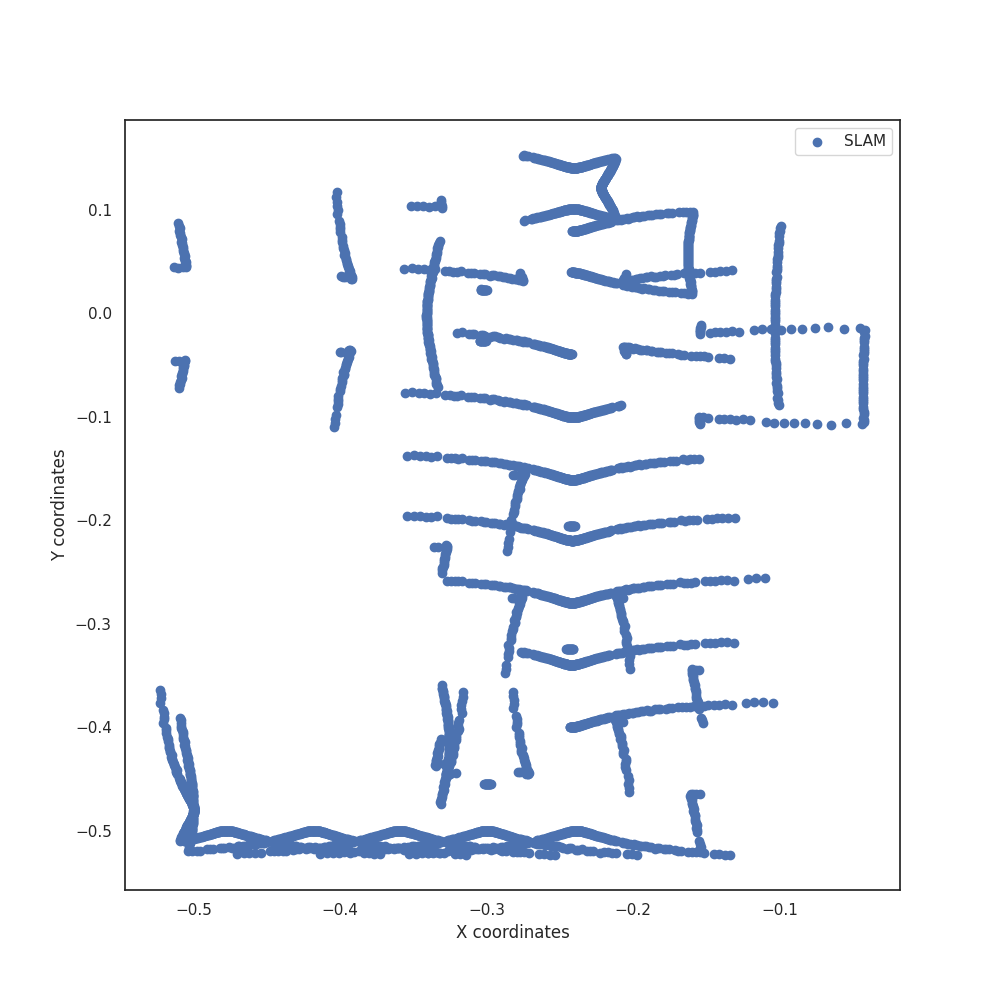
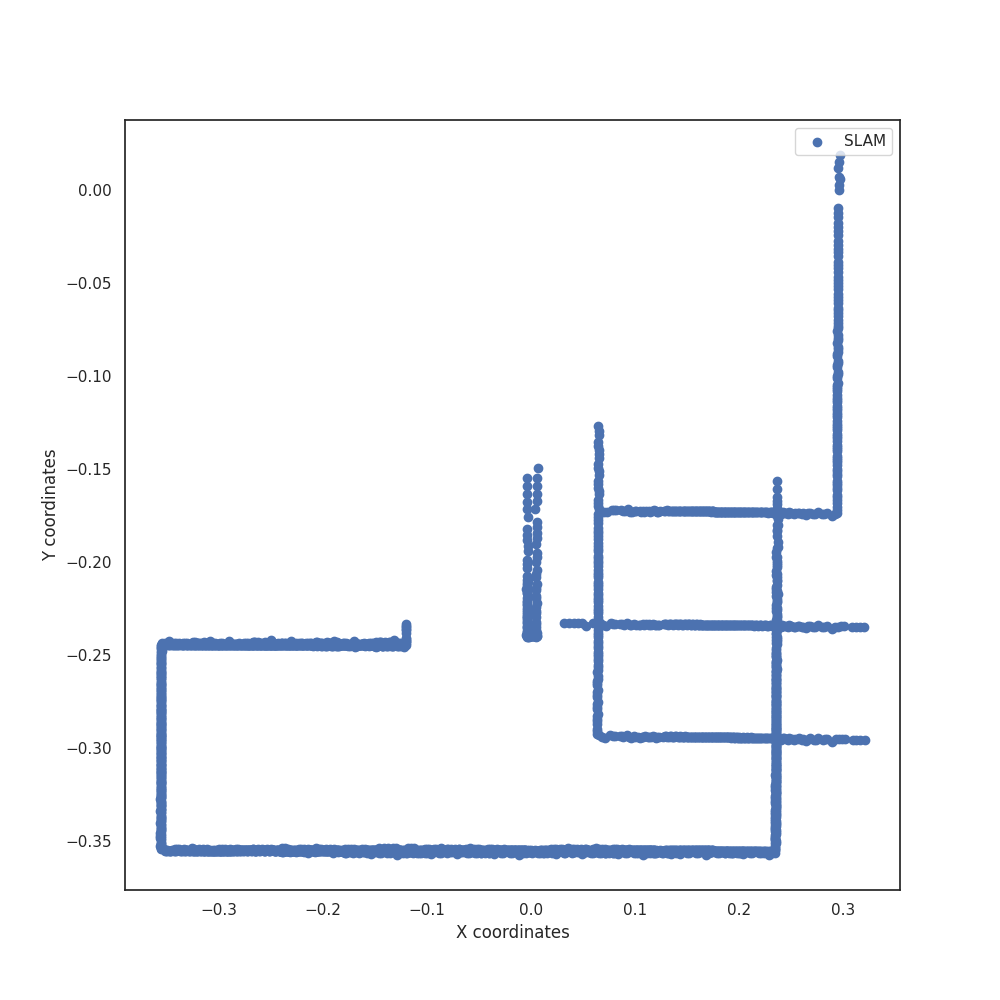
Criei duas funções de devices : side_by_angle_Augusto e  get_position_AUGUSTO. Resolvi a impresição do SLAM

diff --git a/src/slam.py b/src/slam.py
@@ -2,31 +2,42 @@ import numpy as np
 from types_and_constants import Coordinate
 from figure import fig
 import time
+import robot
 
-
+contador = -1000000
+start_angle = robot.expected_angle
 class Slam: 
+
     def __init__(self) -> None:
         self.list_x = []
         self.list_y = []
+        pass
         
-    def take_snapshot(self, gps_position: Coordinate, side_angle_to_distance_mapper: dict[float, float]) -> None:
-        x0 = gps_position.x
-        y0 = gps_position.y
+    def take_snapshot(self, gps_position: list, side_angle_to_distance_mapper: dict[float, float]) -> None:
+        global contador 
+        if contador <3: 
+            x0 = gps_position[0]
+            y0 = gps_position[1]
 
-        """ 
-        for side_angle, distance in side_angle_to_distance_mapper.items():
-            if distance == float ("inf"):
-                continue
-            distance_x = distance*np.cos(side_angle) + x0
-            distance_y = distance*np.sin(side_angle) + y0
-            self.list_x.append(distance_x)
-            self.list_y.append(distance_y)
-        fig.plott(self.list_x, self.list_y, "SLAM", 'b')
-        """
+            
+            for side_angle, distance in side_angle_to_distance_mapper.items():
+                if distance == float ("inf"):
+                    continue
+                if distance < 0.18 : 
+                    distance_x = distance*np.cos(side_angle) + x0
+                    distance_y = distance*np.sin(side_angle) + y0
+                    self.list_x.append(distance_x)
+                    self.list_y.append(distance_y)
+            fig.plott(self.list_x, self.list_y, "SLAM", 'b')
+            contador+=1
+        else : 
+            print("Hello World")
+
+        ''' 
         for side_angle, distance in side_angle_to_distance_mapper.items():
             print(f"side angle {side_angle} : {distance} ")
         time.sleep(5)
-        
+        '''
         
         
 

diff --git a/src/devices/lidar.py b/src/devices/lidar.py
@@ -95,7 +95,8 @@ class Lidar(Device):
         if DEBUG:
             self.debug_info.send(f"{distances=}", System.lidar_measures)
         return distances
-
+    
+    
     def get_distances_by_side_angle(self) -> dict[float, float]:
         """
         :return: A dict where `dict[angle] = distance measured in this side angle`.
@@ -113,6 +114,39 @@ class Lidar(Device):
             )
 
         return distances_by_side_angle
+
+    
+    def get_distances_by_side_angle_AUGUSTO(self) -> dict[float, float]:
+        """
+        :return: Um dicionário onde `dict[angle] = distância média medida nesse ângulo lateral`.
+        """
+    
+    
+        distances_by_side_angle = {}
+        num_angles = self.horizontal_resolution
+        num_layers = self.number_of_layers
+        
+        for measure_idx in range(num_angles):
+            side_angle = round(self._get_measure_side_angle(measure_idx), 2)
+            dist = 0
+            count = 0
+            
+            for i in range(num_layers):  # Considerando as 4 camadas do LiDAR
+                layer_distances = self._lidar.getLayerRangeImage(i)
+                if layer_distances[measure_idx] != float('inf'):
+                    dist += layer_distances[measure_idx]
+                    count += 1
+            
+            distances_by_side_angle[side_angle] = dist / count if count > 0 else float('inf')
+            
+        if DEBUG:
+            self.debug_info.send(
+                f"Medições da distância média em função do ângulo lateral: {distances_by_side_angle}",
+                System.lidar_measures,
+            )
+        
+        return distances_by_side_angle
+    
 
     def get_distances_of_range(
         self, initial_side_angle: float, end_side_angle: float

diff --git a/src/devices/gps.py b/src/devices/gps.py
@@ -28,3 +28,9 @@ class GPS(Device):
         if DEBUG:
             self.debug_info.send(str(coordinate), System.gps_measures)
         return coordinate
+    
+    def get_position_AUGUSTO(self) -> list:
+        positions = self._gps.getValues()
+        posicaoX_atual = positions[0]
+        posicaoY_atual = positions[2]
+        return [posicaoX_atual, posicaoY_atual]

diff --git a/src/dfs.py b/src/dfs.py
@@ -180,7 +180,7 @@ def dfs(
         )
 
     
-    slam.take_snapshot(robot.gps.get_position(), robot.lidar.get_distances_by_side_angle())
+    slam.take_snapshot(robot.gps.get_position_AUGUSTO(), robot.lidar.get_distances_by_side_angle_AUGUSTO())
 
     maze.mark_visited(position)
     robot.step()
